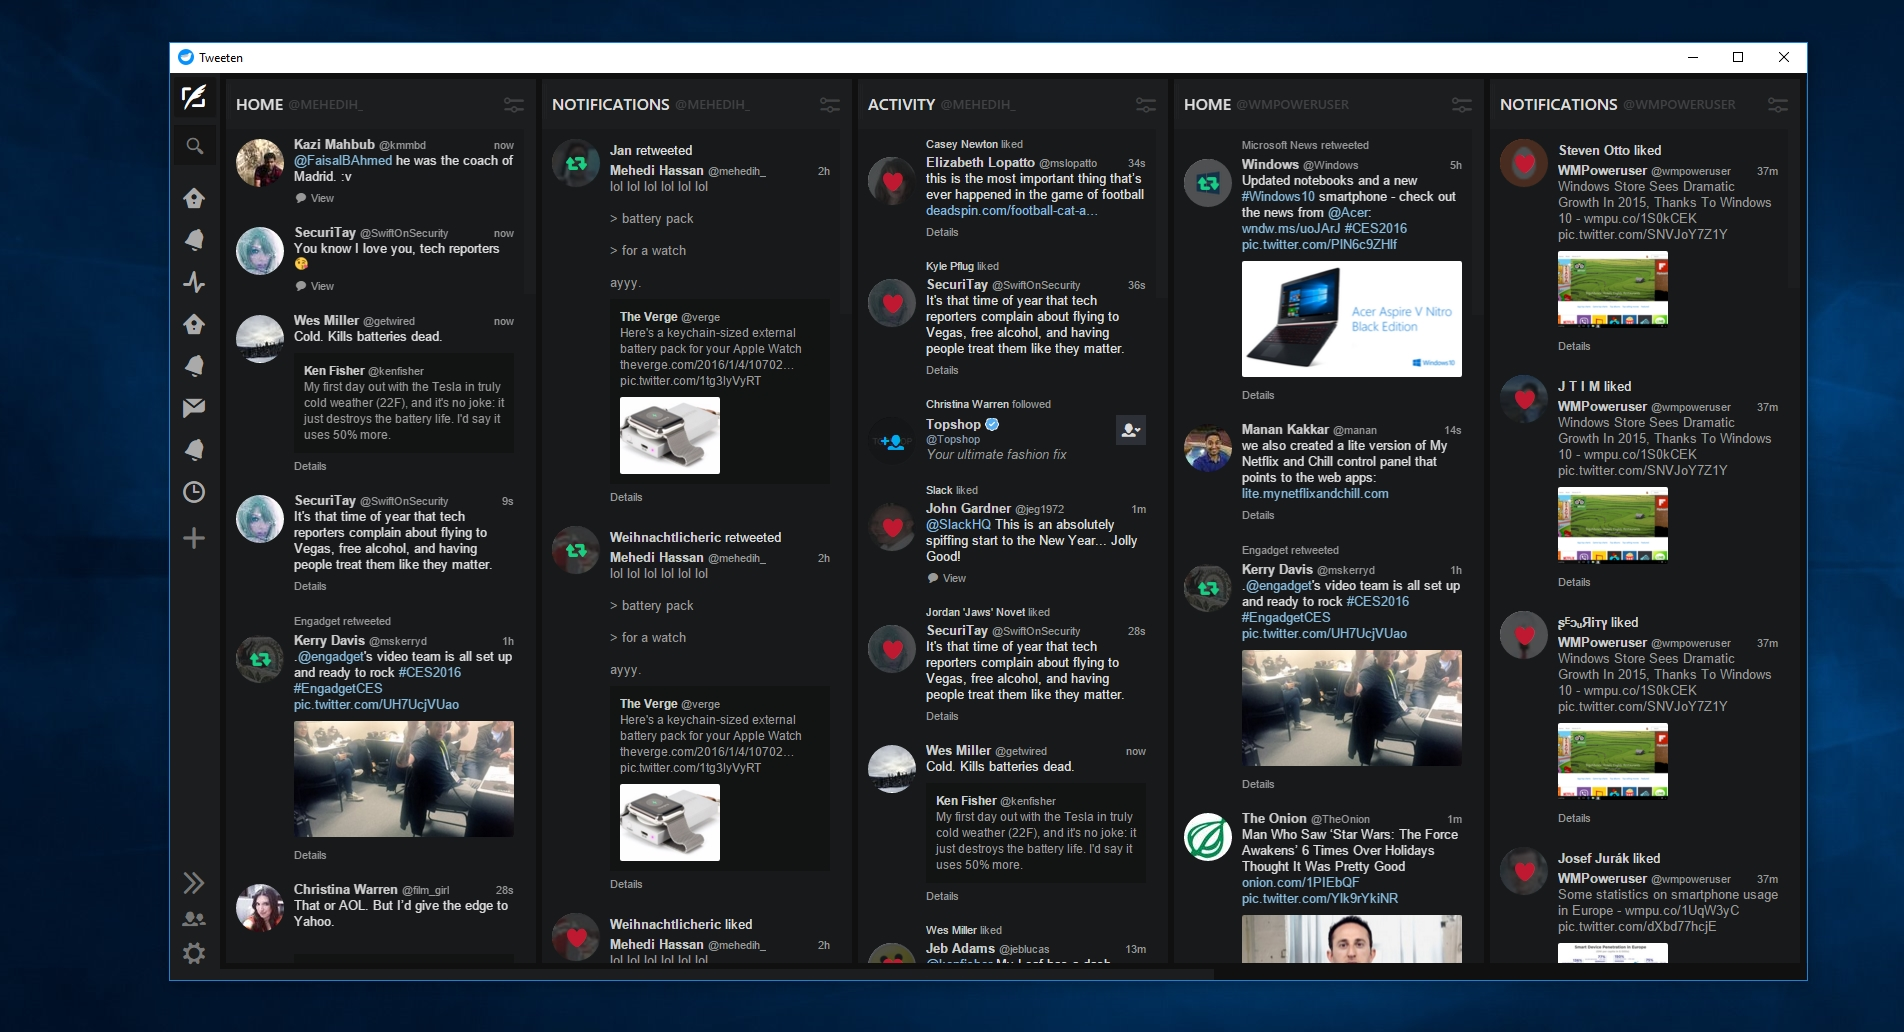
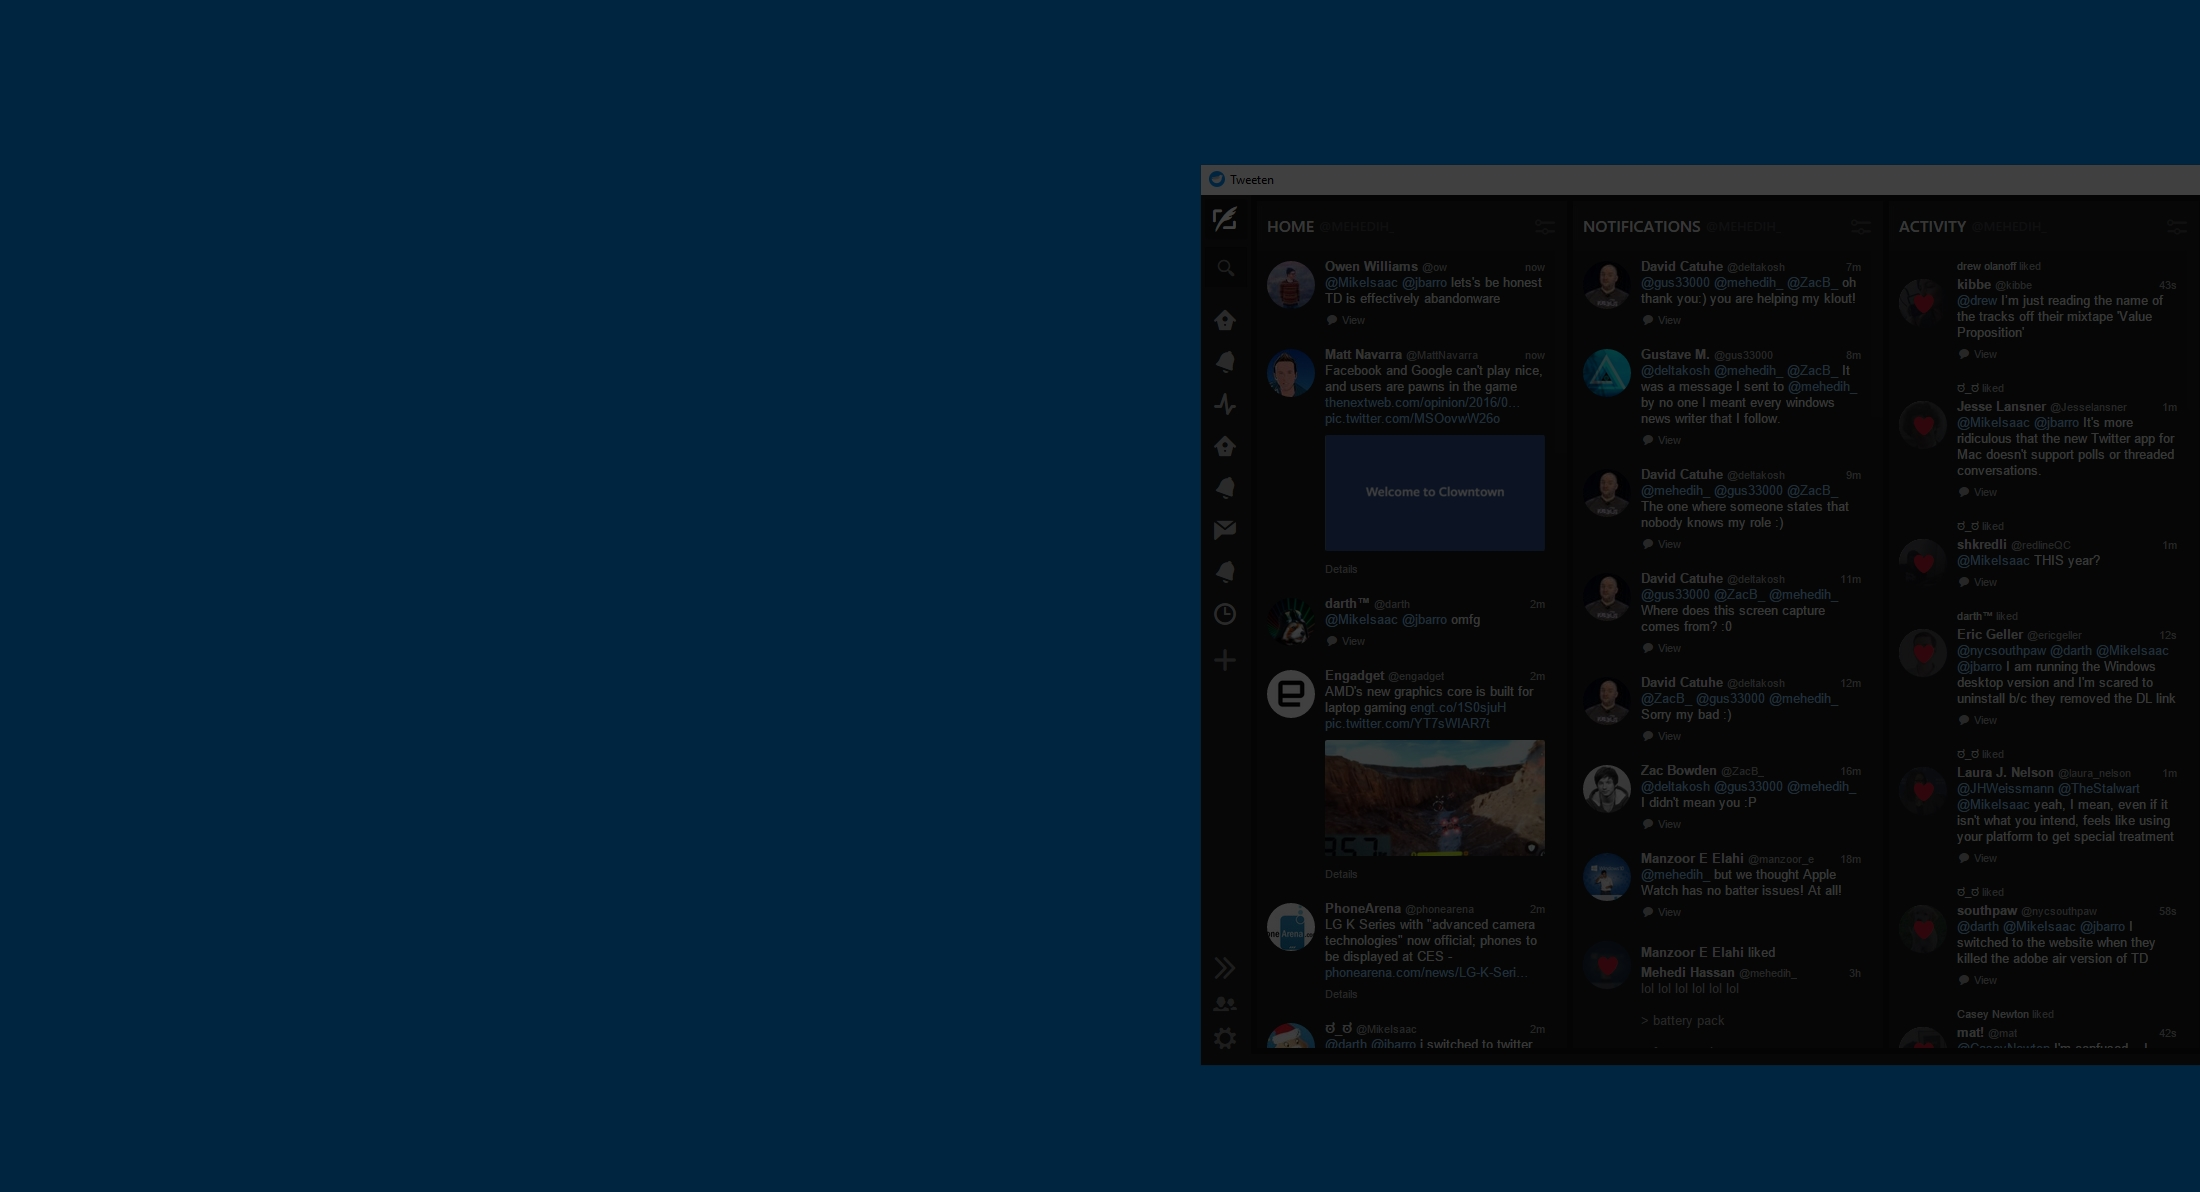
Updates

diff --git a/index.html b/index.html
@@ -1,12 +1,7 @@
 <!DOCTYPE HTML>
-<!--
-	Eventually by HTML5 UP
-	html5up.net | @n33co
-	Free for personal and commercial use under the CCA 3.0 license (html5up.net/license)
--->
 <html>
 	<head>
-		<title>Eventually by HTML5 UP</title>
+		<title>Tweeten</title>
 		<meta charset="utf-8" />
 		<meta name="viewport" content="width=device-width, initial-scale=1, user-scalable=no" />
 		<!--[if lte IE 8]><script src="assets/js/ie/html5shiv.js"></script><![endif]-->
@@ -18,27 +13,39 @@
 
 		<!-- Header -->
 			<header id="header">
-				<h1>Eventually</h1>
-				<p>A simple template for telling the world when you'll launch<br />
-				your next big thing. Brought to you by <a href="http://html5up.net">HTML5 UP</a>.</p>
+				<h1>Tweeten</h1>
+				<p>Introducing Tweeten, an app that makes TweetDeck prettier.<br />
+				Coming soon to Windows, OS X, Linux, Chrome, Firefox, and maybe Edge!</p>
 			</header>
 
-		<!-- Signup Form -->
-			<form id="signup-form" method="post" action="#">
-				<input type="email" name="email" id="email" placeholder="Email Address" />
-				<input type="submit" value="Sign Up" />
-			</form>
+
+<!-- Begin MailChimp Signup Form -->
+<div id="mc_embed_signup">
+<form action="//xyz.us12.list-manage.com/subscribe/post?u=ccd8b8723e9d4d7e4c5472b31&amp;id=7ab893dca7" method="post" id="mc-embedded-subscribe-form" name="mc-embedded-subscribe-form" class="validate" target="_blank" novalidate>
+    <div id="mc_embed_signup_scroll">
+	
+<div class="mc-field-group">
+	<input type="email" value="" name="EMAIL" placeholder="Email Address" class="required email" id="mce-EMAIL">
+</div>
+	<div id="mce-responses" class="clear">
+		<div class="response" id="mce-error-response" style="display:none"></div>
+		<div class="response" id="mce-success-response" style="display:none"></div>
+	</div>    <!-- real people should not fill this in and expect good things - do not remove this or risk form bot signups-->
+    <div style="position: absolute; left: -5000px;" aria-hidden="true"><input type="text" name="b_ccd8b8723e9d4d7e4c5472b31_7ab893dca7" tabindex="-1" value=""></div>
+    <div class="clear"><input type="submit" value="Sign up for beta" name="subscribe" id="mc-embedded-subscribe" class="button"></div>
+    </div>
+</form>
+</div>
+
+<!--End mc_embed_signup-->
 
 		<!-- Footer -->
 			<footer id="footer">
 				<ul class="icons">
-					<li><a href="#" class="icon fa-twitter"><span class="label">Twitter</span></a></li>
-					<li><a href="#" class="icon fa-instagram"><span class="label">Instagram</span></a></li>
-					<li><a href="#" class="icon fa-github"><span class="label">GitHub</span></a></li>
-					<li><a href="#" class="icon fa-envelope-o"><span class="label">Email</span></a></li>
+					<li><a href="http://twitter.com/tweetenapp" class="icon fa-twitter"><span class="label">Twitter</span></a></li>
 				</ul>
 				<ul class="copyright">
-					<li>&copy; Untitled.</li><li>Credits: <a href="http://html5up.net">HTML5 UP</a></li>
+					<li>&copy; Tweeten</li><li>Credits: <a href="http://html5up.net">HTML5 UP</a></li>
 				</ul>
 			</footer>
 

diff --git a/assets/css/main.css b/assets/css/main.css
@@ -149,17 +149,7 @@
 /* BG */
 
 	#bg {
-		-moz-transition: opacity 2s ease-in-out;
-		-webkit-transition: opacity 2s ease-in-out;
-		-ms-transition: opacity 2s ease-in-out;
-		transition: opacity 2s ease-in-out;
-		height: 100%;
-		left: 0;
-		opacity: 0.25;
-		position: fixed;
-		top: 0;
-		width: 100%;
-		z-index: 1;
+		display: none !important;
 	}
 
 		#bg div {
@@ -1185,3 +1175,41 @@
 			}
 
 		}
+        
+        body{
+            background: url("file:///C:/Users/mehed/Documents/Tweeten/images/bg01.jpg") no-repeat center center fixed;
+    -webkit-background-size: cover;
+    -moz-background-size: cover;
+    -o-background-size: cover;
+    background-size: cover;
+        }
+        
+        #mc_embed_signup{
+            width: 55%;
+            display: block;
+            overflow: hidden;
+        }
+        
+        .email{
+            width: 75% !important;
+            float: left;
+        }
+        
+        #mc-embedded-subscribe{
+            width: 21%;
+            float: left;
+            margin-left: 1%;
+           
+        }
+        
+        @media (max-width: 1170px){
+            .email, #mc_embed_signup{
+                width: 100% !important;
+            }
+            
+             #mc-embedded-subscribe{
+                width: 150px !important;
+                margin-left: 0% !important;
+                margin-top: 20px !important;
+            }
+        }
